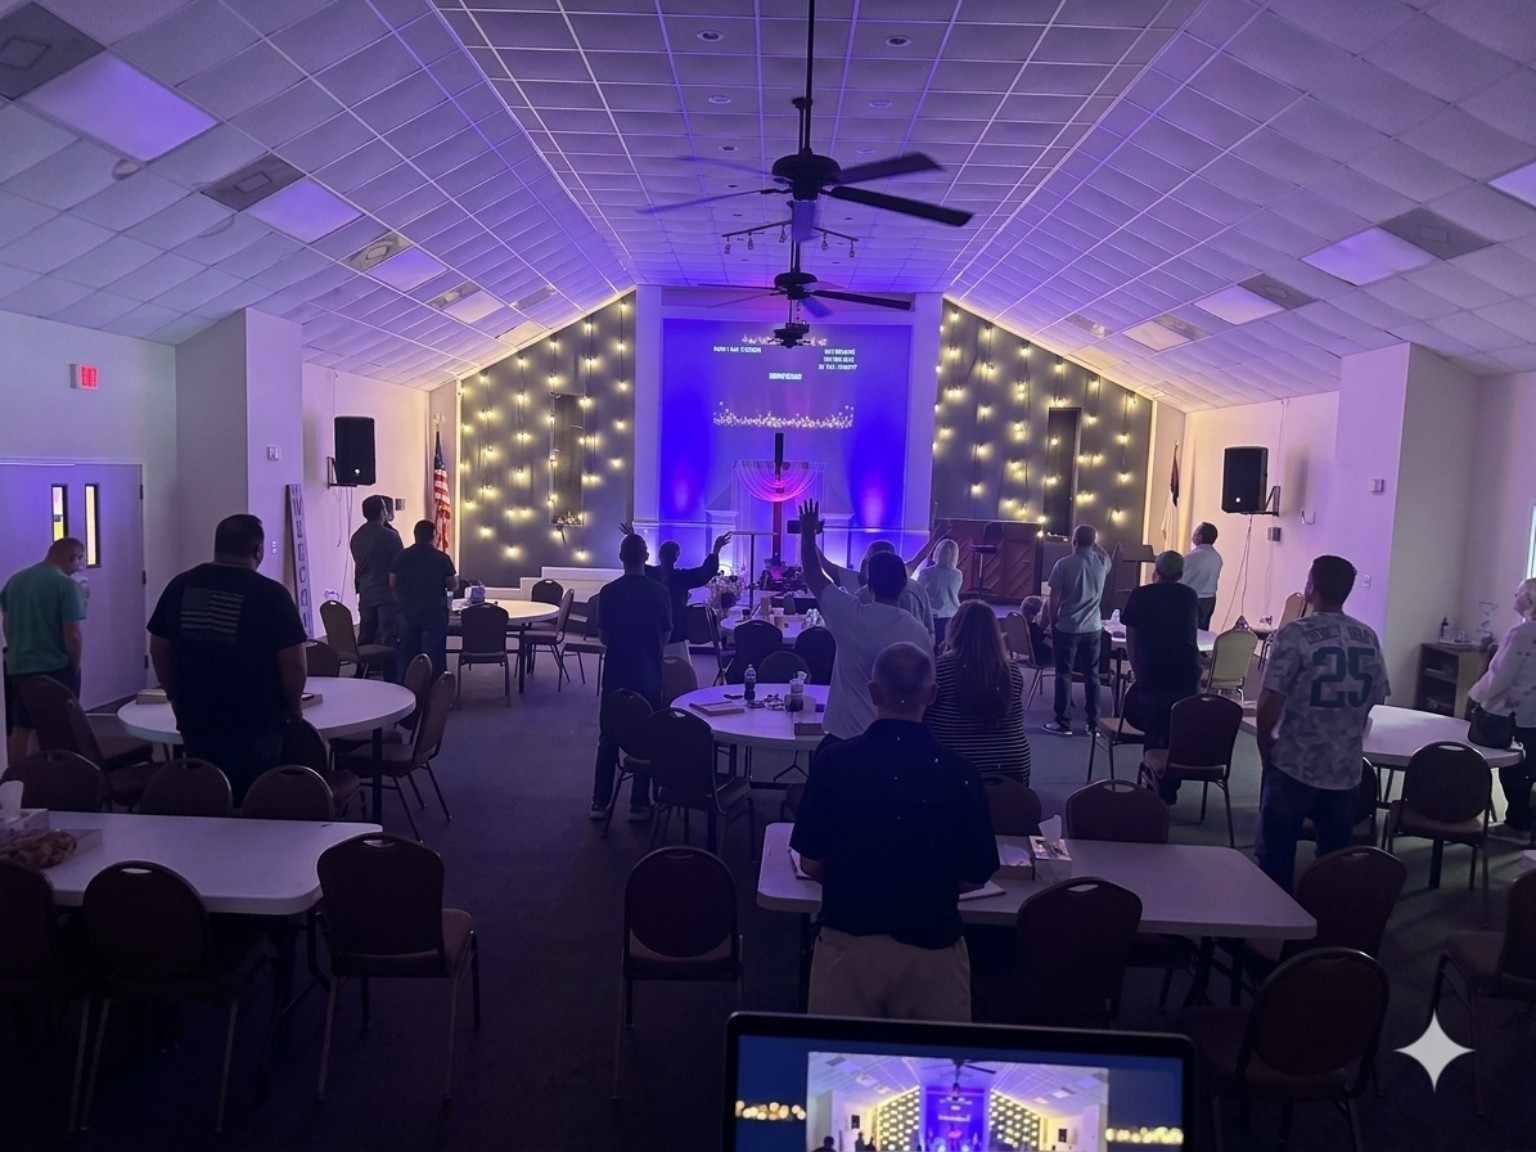
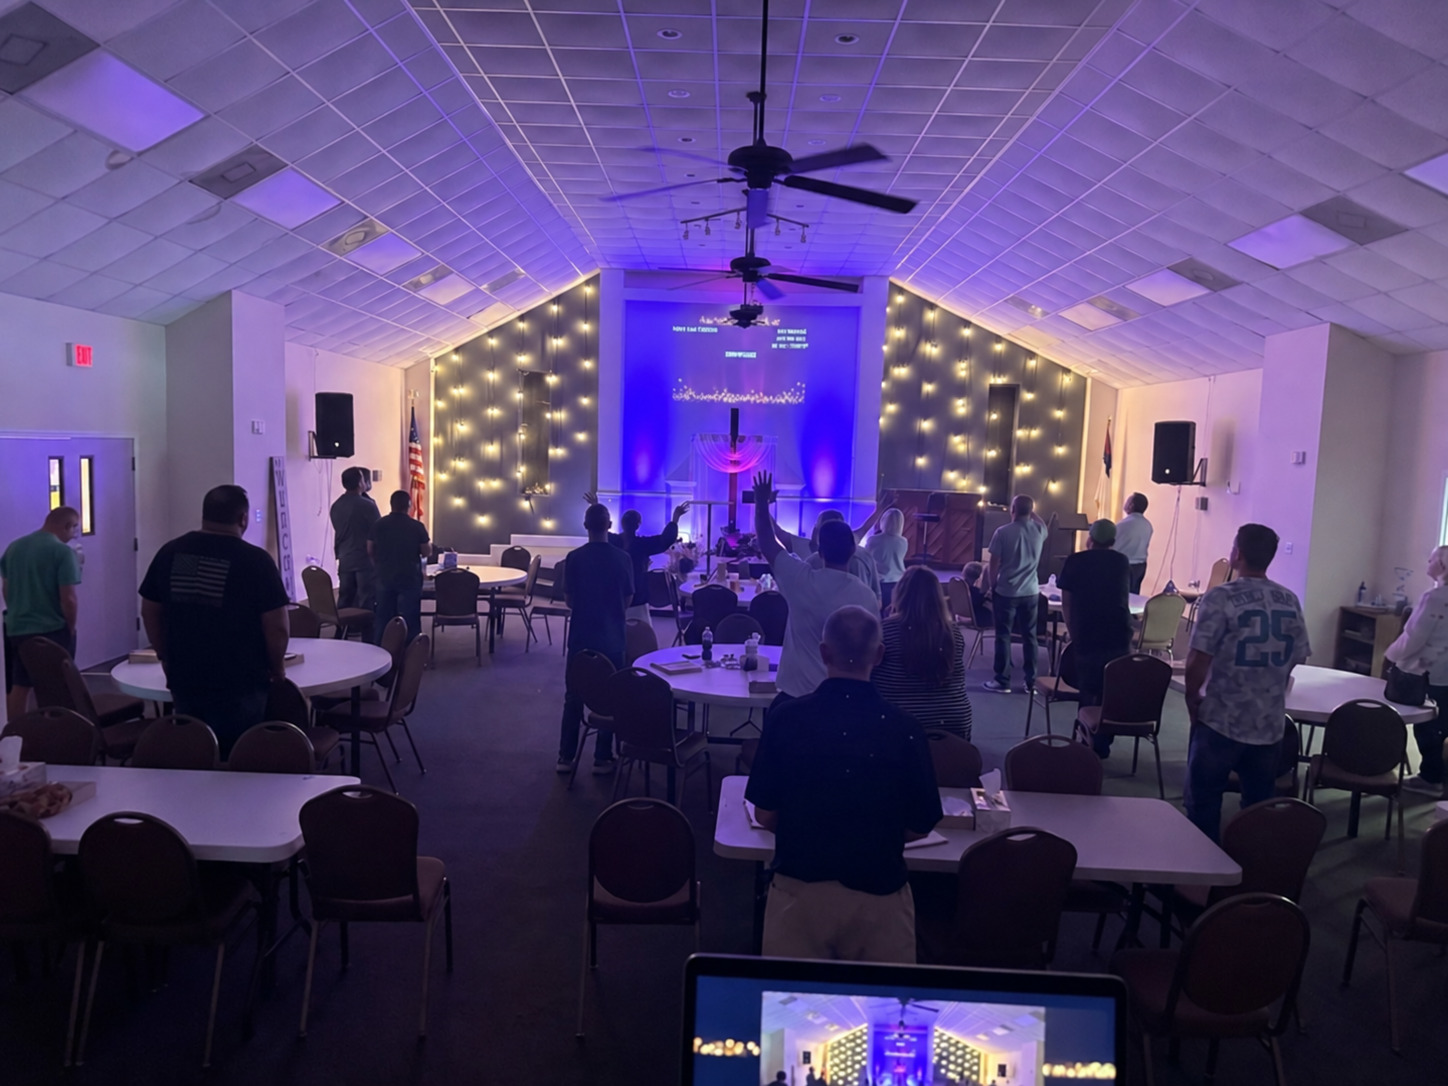
Unify emergency footer image and fix homepage sections

diff --git a/styles.css b/styles.css
@@ -1423,3 +1423,60 @@ footer.foot .social img{border-radius:0!important;box-shadow:none!important}
 .jh-emergency-reference .jh-resource-icon{width:58px;height:58px;border:2px solid #fff;border-radius:50%;display:grid;place-items:center;font:700 22px/1 Archivo,sans-serif;letter-spacing:-.14em}.jh-emergency-reference .jh-emergency-actions b{display:block;font:800 16px Archivo,sans-serif;text-transform:uppercase}.jh-emergency-reference .jh-emergency-actions small{display:block;margin-top:8px;font:600 10px/1.55 Inter,sans-serif;text-transform:uppercase;letter-spacing:.04em;color:#e5eef2}.jh-emergency-reference .jh-e988 small{color:#6fd7ff}.jh-emergency-reference .jh-emergency-actions u{text-decoration:none;font:300 38px/1 Georgia,serif}
 @media(max-width:900px){.jh-emergency-reference{min-height:auto!important;background-position:center top!important}.jh-emergency-reference:before{background:linear-gradient(0deg,rgba(2,9,16,.99) 0%,rgba(2,9,16,.93) 74%,rgba(2,9,16,.5) 100%)}.jh-emergency-reference .jh-emergency-inner{width:calc(100% - 32px);padding:54px 0 30px;grid-template-columns:1fr 120px;grid-template-areas:"copy copy" "mark hope" "actions actions";gap:28px 18px}.jh-emergency-reference .jh-emergency-copy h2{font-size:52px!important}.jh-emergency-reference .jh-emergency-copy p{font-size:12px}.jh-emergency-reference .jh-emergency-mark{min-height:145px}.jh-emergency-reference .jh-emergency-shield{width:112px;height:132px;font-size:40px}.jh-emergency-reference .jh-emergency-hope strong{font-size:25px!important}.jh-emergency-reference .jh-emergency-hope i{width:70px;margin:12px 0}.jh-emergency-reference .jh-emergency-hope span{font-size:9px!important}.jh-emergency-reference .jh-emergency-actions{grid-template-columns:1fr 1fr!important}.jh-emergency-reference .jh-emergency-actions a{min-height:96px!important;grid-template-columns:44px 1fr 12px!important;padding:14px 12px!important;gap:10px}.jh-emergency-reference .jh-resource-icon{width:40px;height:40px;font-size:15px}.jh-emergency-reference .jh-emergency-actions b{font-size:12px}.jh-emergency-reference .jh-emergency-actions small{font-size:8px}.jh-emergency-reference .jh-emergency-actions u{font-size:28px}}
 @media(max-width:520px){.jh-emergency-reference .jh-emergency-inner{grid-template-columns:96px 1fr}.jh-emergency-reference .jh-emergency-copy h2{font-size:44px!important}.jh-emergency-reference .jh-emergency-actions{grid-template-columns:1fr!important}.jh-emergency-reference .jh-emergency-actions a{min-height:84px!important}.jh-emergency-reference .jh-eyebrow{font-size:9px}}
+
+/* 2026-09-19: client-supplied emergency artwork, unchanged and identical on every page. */
+.jh-emergency-image{
+  width:100%;
+  margin:0;
+  padding:0;
+  background:#030b13;
+  line-height:0;
+  overflow:hidden;
+}
+.jh-emergency-image img{
+  display:block;
+  width:100%;
+  height:auto;
+  margin:0;
+}
+
+/* Keep the three paired homepage bands mathematically even. */
+.jh-clean .jh-roof .jh-wrap,
+.jh-clean .jh-person-grid,
+.jh-clean .jh-stories>.jh-wrap{
+  grid-template-columns:repeat(2,minmax(0,1fr));
+}
+
+/* Joey and Jeff remain equal-height without clipping Joey's final line or button. */
+@media(min-width:801px){
+  .jh-clean .jh-person-grid article{
+    grid-template-columns:1fr 1fr;
+    min-height:380px;
+    height:auto;
+  }
+  .jh-clean .jh-person-grid article>img{
+    height:100%;
+    min-height:380px;
+  }
+  .jh-clean .jh-person-grid article>div{
+    min-height:380px;
+    height:auto;
+    padding:32px 30px 36px;
+    overflow:visible;
+    display:flex;
+    flex-direction:column;
+    align-items:flex-start;
+  }
+  .jh-clean .jh-person-grid article>div>.jh-primary,
+  .jh-clean .jh-person-grid article>div>.jh-actions{
+    margin-top:auto;
+  }
+}
+
+@media(max-width:800px){
+  .jh-clean .jh-roof .jh-wrap,
+  .jh-clean .jh-person-grid,
+  .jh-clean .jh-stories>.jh-wrap{
+    grid-template-columns:1fr;
+  }
+}

diff --git a/index.html b/index.html
@@ -11,6 +11,6 @@
 <section class="jh-stories"><div class="jh-wrap"><div class="jh-stories-copy"><div class="jh-eyebrow">Real stories. Real change.</div><h2>Everything we would tell you at the kitchen table.</h2><p>Read stories from the men, families, churches and supporters who have seen what God can do here.</p><a class="jh-primary" href="stories.html">Read their stories →</a></div><img src="josephs-home-worship.jpg" alt="Joseph's Home community gathering"></div></section>
 
 <section class="jh-join"><div class="jh-wrap"><div class="jh-join-main"><div class="jh-eyebrow">Join the mission</div><h2>Real change happens together.</h2><p>Your support helps provide housing, food, guidance, and hope for men ready for a new beginning.</p><div class="jh-actions"><a class="jh-primary" href="give.html">Give now →</a><a class="jh-outline" href="https://app.onestepsoftware.com/forms/XuEfGXU">Apply →</a></div></div><blockquote>“Be still, and know that I am God.”<cite>Psalm 46:10 · ESV</cite></blockquote><div class="jh-quick"><h3>Quick links</h3><div><a href="#who">Who we are</a><a href="stories.html">Stories</a><a href="find-help.html">Find help</a><a href="golf.html">Golf</a><a href="employment.html">Hire us</a><a href="faq.html">FAQ</a></div></div></div></section>
-<section class="jh-emergency" aria-labelledby="emergency-title"><div class="jh-emergency-inner"><div class="jh-emergency-copy"><div class="jh-eyebrow">Immediate help · 24/7 · You are not alone</div><h2 id="emergency-title">If tonight's<br>the emergency.</h2><p>If you or someone you know is in immediate danger, needs mental health or substance-use crisis support, or treatment information and referrals, contact:</p></div><div class="jh-emergency-actions"><a class="jh-e911" href="tel:911"><b>Call 911</b><small>Life-threatening emergencies</small></a><a class="jh-e988" href="tel:988"><b>Call / Text 988</b><small>Suicide & Crisis Lifeline</small></a><a href="tel:18006624357"><b>SAMHSA<br>1-800-662-4357</b><small>Treatment referral & information</small></a><a href="find-help.html"><b>Find treatment</b><small>Locate nearby programs</small></a></div><div class="jh-emergency-hope">There<br>is hope.</div></div></section>
+<section class="jh-emergency-image" aria-label="Immediate emergency help"><img src="emergency-footer.jpg" alt="Immediate help: call 911 for life-threatening emergencies, call or text 988 for the Suicide and Crisis Lifeline, call SAMHSA at 1-800-662-4357 for treatment referrals, or find treatment programs."></section>
 </main><footer class="jh-footer"><div class="jh-wrap"><div class="jh-footer-brand"><img src="logo-seal-white.png" alt=""><div><b>Joseph's Home</b><small>A faith-based sober living home for men<br>Saucier, Mississippi</small></div></div><nav class="jh-footer-links" aria-label="Footer"><a href="privacy.html">Privacy</a><a href="terms.html">Terms</a><a href="mailto:jeffyork@thejosephhome.org">Contact</a></nav><p>© 2026 Joseph's Home.<br>Joseph's Home is not a rehabilitation facility, detox, or medical provider.</p></div></footer>
 <script>const b=document.querySelector('.jh-menu'),n=document.querySelector('#jh-links');b.onclick=()=>{const o=n.classList.toggle('open');b.setAttribute('aria-expanded',o)}</script><script src="jh-chatbot.js" defer></script></body></html>

diff --git a/stories.html b/stories.html
@@ -80,7 +80,7 @@
     </p>
   </div>
 </section>
-<section class="jh-emergency" aria-labelledby="stories-emergency-title"><div class="jh-emergency-inner"><div class="jh-emergency-copy"><div class="jh-eyebrow">Immediate help · 24/7 · You are not alone</div><h2 id="stories-emergency-title">If tonight's<br>the emergency.</h2><p>If you or someone you know is in immediate danger, needs mental health or substance-use crisis support, or treatment information and referrals, contact:</p></div><div class="jh-emergency-actions"><a class="jh-e911" href="tel:911"><b>Call 911</b><small>Life-threatening emergencies</small></a><a class="jh-e988" href="tel:988"><b>Call / Text 988</b><small>Suicide &amp; Crisis Lifeline</small></a><a href="tel:18006624357"><b>SAMHSA<br>1-800-662-4357</b><small>Treatment referral &amp; information</small></a><a href="find-help.html"><b>Find treatment</b><small>Locate nearby programs</small></a></div><div class="jh-emergency-hope">There<br>is hope.</div></div></section>
+<section class="jh-emergency-image" aria-label="Immediate emergency help"><img src="emergency-footer.jpg" alt="Immediate help: call 911 for life-threatening emergencies, call or text 988 for the Suicide and Crisis Lifeline, call SAMHSA at 1-800-662-4357 for treatment referrals, or find treatment programs."></section>
 <footer class="foot">
   <div class="wrap">
     <img class="foot-seal" src="logo-seal-white.png" alt="Joseph's Home seal">
@@ -97,7 +97,7 @@
       <li><a href="https://youtube.com/@josephshome_ms?si=ajOP0fY4tiwqMU5I" target="_blank" rel="noopener"><img src="social-youtube.jpg" alt="Joseph's Home on YouTube"></a></li>
       <li><a href="https://share.google/oe5oRDQpxMsSED0M7" target="_blank" rel="noopener"><img src="social-google-reviews.jpg" alt="Joseph's Home reviews on Google"></a></li>
     </ul>
-    <p class="legal">Joseph&rsquo;s Home is a faith-based sober living home. We are not a rehabilitation facility, a detox, or a medical provider. If you or someone you love is in immediate danger, call 911. For free, confidential help at any hour, call or text 988, or call SAMHSA&rsquo;s national helpline at 1-800-662-4357.</p>
+    <p class="legal">Joseph&rsquo;s Home is a faith-based sober living home. We are not a rehabilitation facility, a detox, or a medical provider.</p>
     <p class="legal" style="border:0;margin-top:0;padding-top:0">Scripture quotations are from the ESV&reg; Bible (The Holy Bible, English Standard Version&reg;), copyright &copy; 2001 by Crossway, a publishing ministry of Good News Publishers. Used by permission. All rights reserved. &copy; 2026 Joseph&rsquo;s Home.</p>
   </div>
 </footer>

diff --git a/faq.html b/faq.html
@@ -235,19 +235,7 @@
     </p>
   </div>
 </section>
-<section class="emergency" aria-label="Emergency help">
-  <div class="wrap">
-    <div class="siren-label"><span class="siren-lamp"></span>IF TONIGHT IS THE EMERGENCY</div>
-    <h2>Do not wait on us.</h2>
-    <p style="margin-top:18px">If someone is in immediate danger, call <strong>911</strong>. For free,
-      confidential help at any hour, call or text <strong>988</strong>. For treatment referrals near you,
-      SAMHSA&rsquo;s national helpline is <strong>1-800-662-4357</strong>. Then write to us in the morning.</p>
-    <div class="emergency-actions">
-      <a class="btn btn-alarm" href="tel:988">Call or text 988</a>
-      <a class="btn btn-siren" href="tel:18006624357">SAMHSA &middot; 1-800-662-4357</a>
-    </div>
-  </div>
-</section>
+<section class="jh-emergency-image" aria-label="Immediate emergency help"><img src="emergency-footer.jpg" alt="Immediate help: call 911 for life-threatening emergencies, call or text 988 for the Suicide and Crisis Lifeline, call SAMHSA at 1-800-662-4357 for treatment referrals, or find treatment programs."></section>
 <footer class="foot">
   <div class="wrap">
     <img class="foot-seal" src="logo-seal-white.png" alt="Joseph's Home seal">
@@ -264,7 +252,7 @@
       <li><a href="https://youtube.com/@josephshome_ms?si=ajOP0fY4tiwqMU5I" target="_blank" rel="noopener"><img src="social-youtube.jpg" alt="Joseph's Home on YouTube"></a></li>
       <li><a href="https://share.google/oe5oRDQpxMsSED0M7" target="_blank" rel="noopener"><img src="social-google-reviews.jpg" alt="Joseph's Home reviews on Google"></a></li>
     </ul>
-    <p class="legal">Joseph&rsquo;s Home is a faith-based sober living home. We are not a rehabilitation facility, a detox, or a medical provider. If you or someone you love is in immediate danger, call 911. For free, confidential help at any hour, call or text 988, or call SAMHSA&rsquo;s national helpline at 1-800-662-4357.</p>
+    <p class="legal">Joseph&rsquo;s Home is a faith-based sober living home. We are not a rehabilitation facility, a detox, or a medical provider.</p>
     <p class="legal" style="border:0;margin-top:0;padding-top:0">Scripture quotations are from the ESV&reg; Bible (The Holy Bible, English Standard Version&reg;), copyright &copy; 2001 by Crossway, a publishing ministry of Good News Publishers. Used by permission. All rights reserved. &copy; 2026 Joseph&rsquo;s Home.</p>
   </div>
 </footer>

diff --git a/golf.html b/golf.html
@@ -183,19 +183,7 @@
     </p>
   </div>
 </section>
-<section class="emergency" aria-label="Emergency help">
-  <div class="wrap">
-    <div class="siren-label"><span class="siren-lamp"></span>IF TONIGHT IS THE EMERGENCY</div>
-    <h2>Do not wait on us.</h2>
-    <p style="margin-top:18px">If someone is in immediate danger, call <strong>911</strong>. For free,
-      confidential help at any hour, call or text <strong>988</strong>. For treatment referrals near you,
-      SAMHSA&rsquo;s national helpline is <strong>1-800-662-4357</strong>. Then write to us in the morning.</p>
-    <div class="emergency-actions">
-      <a class="btn btn-alarm" href="tel:988">Call or text 988</a>
-      <a class="btn btn-siren" href="tel:18006624357">SAMHSA &middot; 1-800-662-4357</a>
-    </div>
-  </div>
-</section>
+<section class="jh-emergency-image" aria-label="Immediate emergency help"><img src="emergency-footer.jpg" alt="Immediate help: call 911 for life-threatening emergencies, call or text 988 for the Suicide and Crisis Lifeline, call SAMHSA at 1-800-662-4357 for treatment referrals, or find treatment programs."></section>
 <footer class="foot">
   <div class="wrap">
     <img class="foot-seal" src="logo-seal-white.png" alt="Joseph's Home seal">
@@ -212,7 +200,7 @@
       <li><a href="https://youtube.com/@josephshome_ms?si=ajOP0fY4tiwqMU5I" target="_blank" rel="noopener"><img src="social-youtube.jpg" alt="Joseph's Home on YouTube"></a></li>
       <li><a href="https://share.google/oe5oRDQpxMsSED0M7" target="_blank" rel="noopener"><img src="social-google-reviews.jpg" alt="Joseph's Home reviews on Google"></a></li>
     </ul>
-    <p class="legal">Joseph&rsquo;s Home is a faith-based sober living home. We are not a rehabilitation facility, a detox, or a medical provider. If you or someone you love is in immediate danger, call 911. For free, confidential help at any hour, call or text 988, or call SAMHSA&rsquo;s national helpline at 1-800-662-4357.</p>
+    <p class="legal">Joseph&rsquo;s Home is a faith-based sober living home. We are not a rehabilitation facility, a detox, or a medical provider.</p>
     <p class="legal" style="border:0;margin-top:0;padding-top:0">Scripture quotations are from the ESV&reg; Bible (The Holy Bible, English Standard Version&reg;), copyright &copy; 2001 by Crossway, a publishing ministry of Good News Publishers. Used by permission. All rights reserved. &copy; 2026 Joseph&rsquo;s Home.</p>
   </div>
 </footer>

diff --git a/employment.html b/employment.html
@@ -188,19 +188,7 @@
 
 </main>
 
-<section class="emergency" aria-label="Emergency help">
-  <div class="wrap">
-    <div class="siren-label"><span class="siren-lamp"></span>IF TONIGHT IS THE EMERGENCY</div>
-    <h2>Do not wait on us.</h2>
-    <p style="margin-top:18px">If someone is in immediate danger, call <strong>911</strong>. For free,
-      confidential help at any hour, call or text <strong>988</strong>. For treatment referrals near you,
-      SAMHSA&rsquo;s national helpline is <strong>1-800-662-4357</strong>. Then write to us in the morning.</p>
-    <div class="emergency-actions">
-      <a class="btn btn-alarm" href="tel:988">Call or text 988</a>
-      <a class="btn btn-siren" href="tel:18006624357">SAMHSA &middot; 1-800-662-4357</a>
-    </div>
-  </div>
-</section>
+<section class="jh-emergency-image" aria-label="Immediate emergency help"><img src="emergency-footer.jpg" alt="Immediate help: call 911 for life-threatening emergencies, call or text 988 for the Suicide and Crisis Lifeline, call SAMHSA at 1-800-662-4357 for treatment referrals, or find treatment programs."></section>
 
 <footer class="foot">
   <div class="wrap">
@@ -218,7 +206,7 @@
       <li><a href="https://youtube.com/@josephshome_ms?si=ajOP0fY4tiwqMU5I" target="_blank" rel="noopener"><img src="social-youtube.jpg" alt="Joseph's Home on YouTube"></a></li>
       <li><a href="https://share.google/oe5oRDQpxMsSED0M7" target="_blank" rel="noopener"><img src="social-google-reviews.jpg" alt="Joseph's Home reviews on Google"></a></li>
     </ul>
-    <p class="legal">Joseph&rsquo;s Home is a faith-based sober living home. We are not a rehabilitation facility, a detox, or a medical provider. If you or someone you love is in immediate danger, call 911. For free, confidential help at any hour, call or text 988, or call SAMHSA&rsquo;s national helpline at 1-800-662-4357.</p>
+    <p class="legal">Joseph&rsquo;s Home is a faith-based sober living home. We are not a rehabilitation facility, a detox, or a medical provider.</p>
     <p class="legal" style="border:0;margin-top:0;padding-top:0">Scripture quotations are from the ESV&reg; Bible (The Holy Bible, English Standard Version&reg;), copyright &copy; 2001 by Crossway, a publishing ministry of Good News Publishers. Used by permission. All rights reserved. &copy; 2026 Joseph&rsquo;s Home.</p>
   </div>
 </footer>

diff --git a/give.html b/give.html
@@ -248,19 +248,7 @@
 
 </main>
 
-<section class="emergency" aria-label="Emergency help">
-  <div class="wrap">
-    <div class="siren-label"><span class="siren-lamp"></span>IF TONIGHT IS THE EMERGENCY</div>
-    <h2>Do not wait on us.</h2>
-    <p style="margin-top:18px">If someone is in immediate danger, call <strong>911</strong>. For free,
-      confidential help at any hour, call or text <strong>988</strong>. For treatment referrals near you,
-      SAMHSA&rsquo;s national helpline is <strong>1-800-662-4357</strong>. Then write to us in the morning.</p>
-    <div class="emergency-actions">
-      <a class="btn btn-alarm" href="tel:988">Call or text 988</a>
-      <a class="btn btn-siren" href="tel:18006624357">SAMHSA &middot; 1-800-662-4357</a>
-    </div>
-  </div>
-</section>
+<section class="jh-emergency-image" aria-label="Immediate emergency help"><img src="emergency-footer.jpg" alt="Immediate help: call 911 for life-threatening emergencies, call or text 988 for the Suicide and Crisis Lifeline, call SAMHSA at 1-800-662-4357 for treatment referrals, or find treatment programs."></section>
 
 <footer class="foot">
   <div class="wrap">
@@ -278,7 +266,7 @@
       <li><a href="https://youtube.com/@josephshome_ms?si=ajOP0fY4tiwqMU5I" target="_blank" rel="noopener"><img src="social-youtube.jpg" alt="Joseph's Home on YouTube"></a></li>
       <li><a href="https://share.google/oe5oRDQpxMsSED0M7" target="_blank" rel="noopener"><img src="social-google-reviews.jpg" alt="Joseph's Home reviews on Google"></a></li>
     </ul>
-    <p class="legal">Joseph&rsquo;s Home is a faith-based sober living home. We are not a rehabilitation facility, a detox, or a medical provider. If you or someone you love is in immediate danger, call 911. For free, confidential help at any hour, call or text 988, or call SAMHSA&rsquo;s national helpline at 1-800-662-4357.</p>
+    <p class="legal">Joseph&rsquo;s Home is a faith-based sober living home. We are not a rehabilitation facility, a detox, or a medical provider.</p>
     <p class="legal" style="border:0;margin-top:0;padding-top:0">Scripture quotations are from the ESV&reg; Bible (The Holy Bible, English Standard Version&reg;), copyright &copy; 2001 by Crossway, a publishing ministry of Good News Publishers. Used by permission. All rights reserved. &copy; 2026 Joseph&rsquo;s Home.</p>
   </div>
 </footer>

diff --git a/find-help.html b/find-help.html
@@ -317,6 +317,7 @@
     </p>
   </div>
 </section>
+<section class="jh-emergency-image" aria-label="Immediate emergency help"><img src="emergency-footer.jpg" alt="Immediate help: call 911 for life-threatening emergencies, call or text 988 for the Suicide and Crisis Lifeline, call SAMHSA at 1-800-662-4357 for treatment referrals, or find treatment programs."></section>
 <footer class="foot">
   <div class="wrap">
     <img class="foot-seal" src="logo-seal-white.png" alt="Joseph's Home seal">
